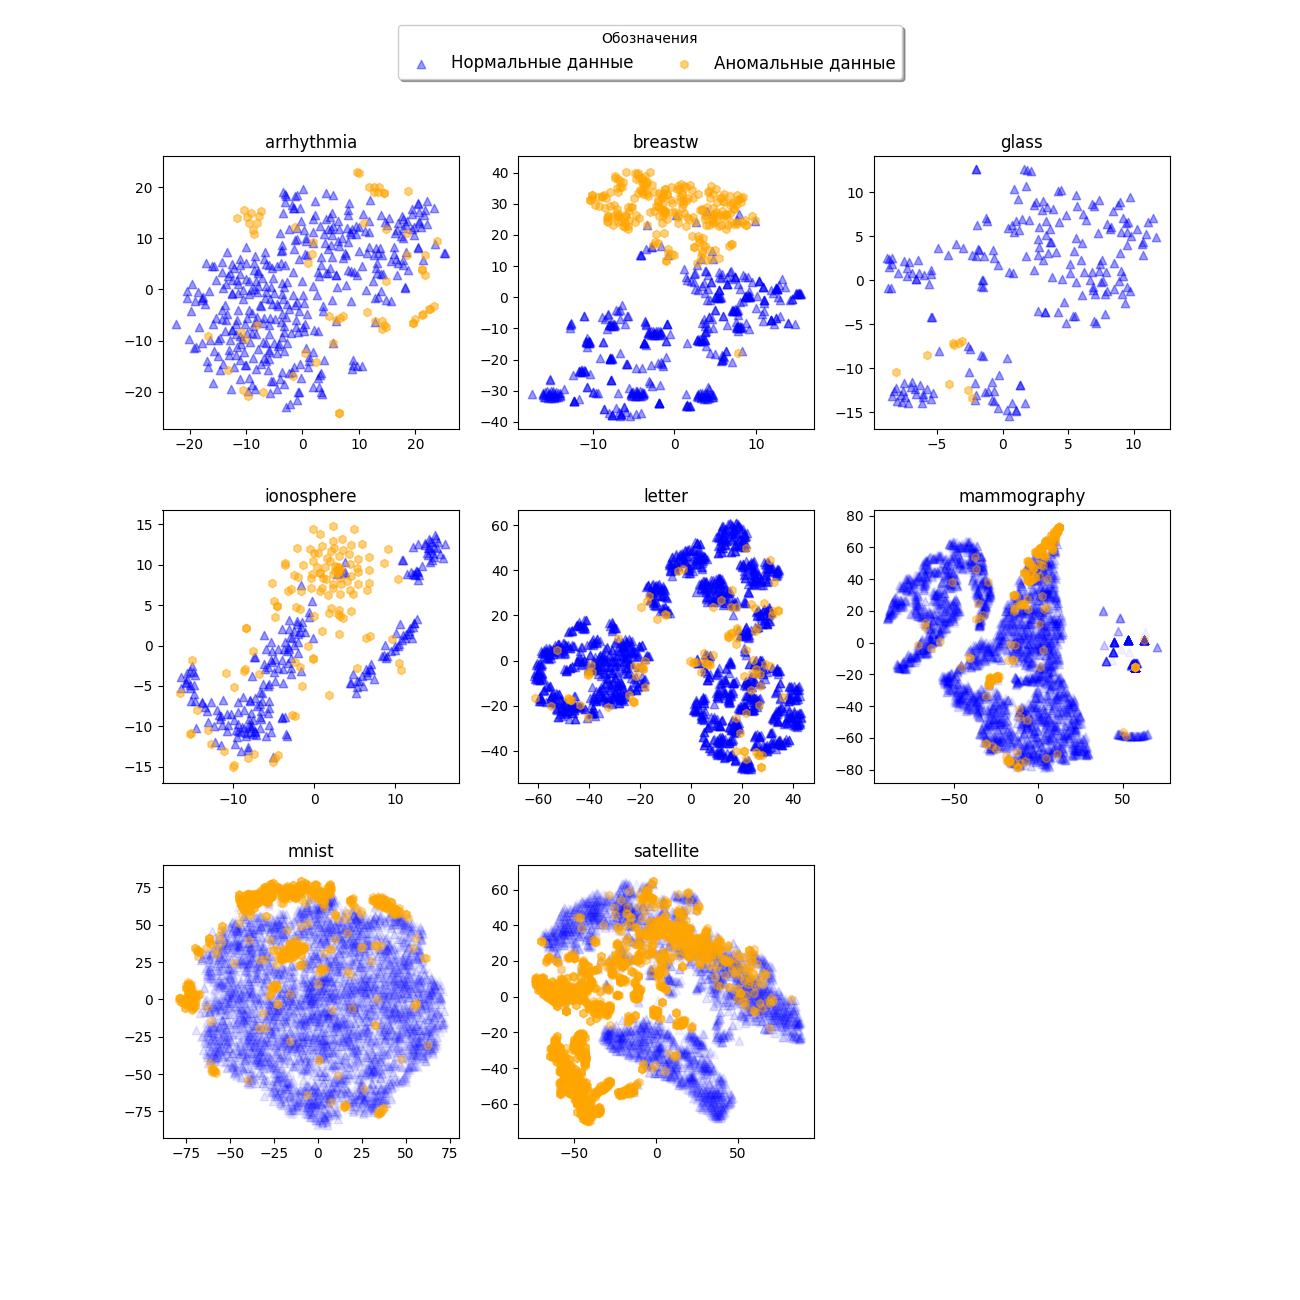
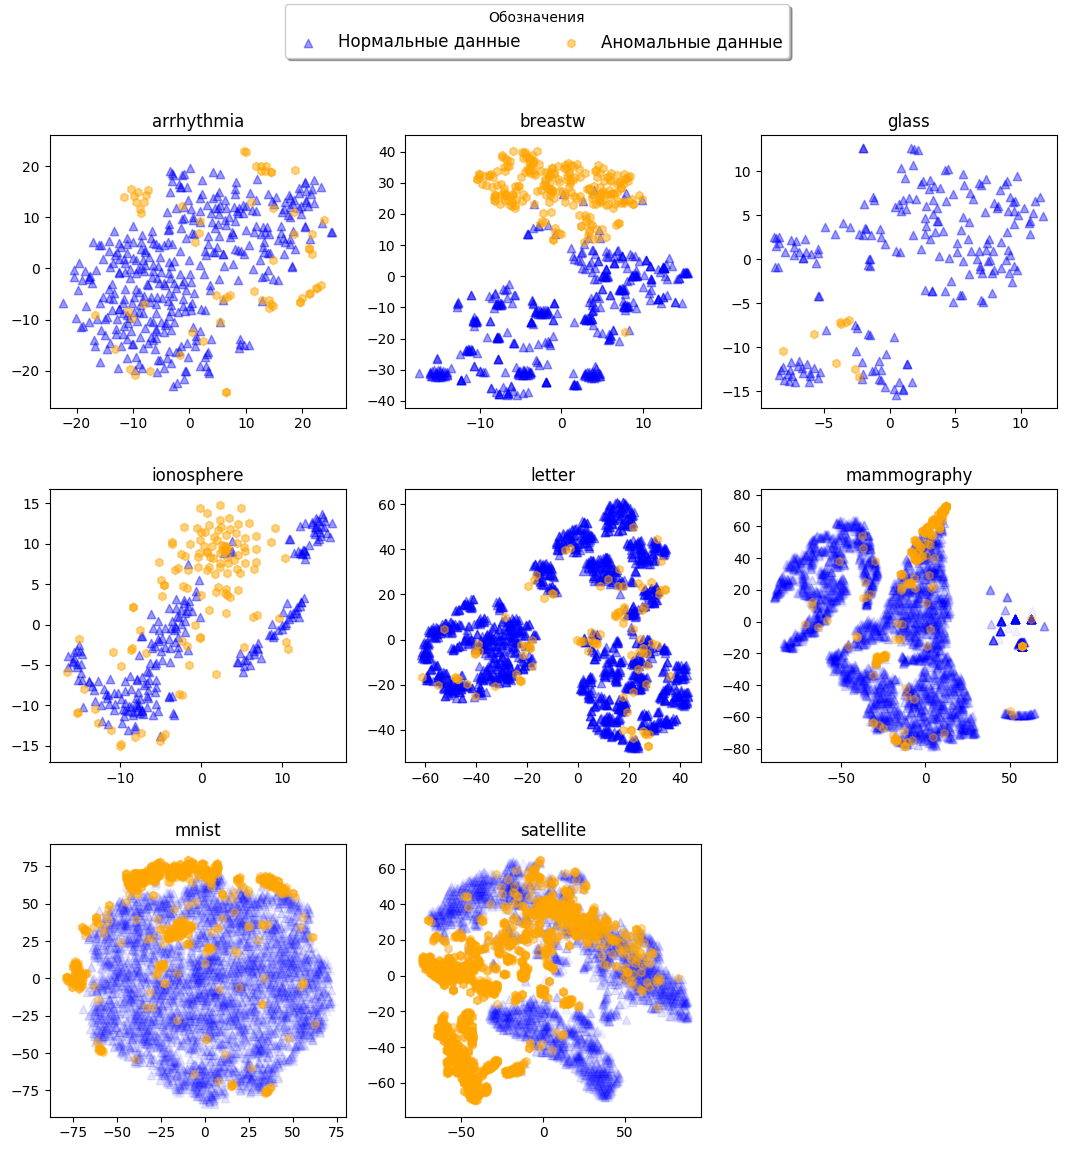
Up

diff --git a/code/db_communication/db_queries.py b/code/db_communication/db_queries.py
@@ -2,11 +2,12 @@ import io
 import psycopg2
 import pandas as pd
 
-PORT='5432'
-DB_NAME='digitlabDB'
-USER='digitlab'
-PASS='12345678'
-HOST='localhost'
+PORT = '5432'
+DB_NAME = 'digitlabDB'
+USER = 'digitlab'
+PASS = '12345678'
+HOST = 'localhost'
+
 
 def commit_query(query_filename):
     parameters = "host={} dbname={} user={} password={} port={}".format(str(HOST), str(DB_NAME), str(USER), str(PASS), str(PORT))
@@ -19,14 +20,14 @@ def commit_query(query_filename):
     try:
         cursor = connection.cursor()
         cursor.execute(query)
-        if(first_word == 'select' or first_word == 'SELECT'):
+        if first_word == 'select' or first_word == 'SELECT':
             rows = cursor.fetchall()
-            print (rows)
+            print(rows)
         connection.commit()
     except (Exception, psycopg2.Error) as error:
         print("Error while working with table", error)
     finally:
-        if(connection):
+        if connection:
             cursor.close()
             connection.close()
 
@@ -71,7 +72,7 @@ def create_file(user_id, file_name, data_frame, column_names, column_types):
     except (Exception, psycopg2.DatabaseError) as error:
         print("Error while working with database", error)
     finally:
-        if(connection):
+        if connection:
             cursor.close()
             connection.close()
 
@@ -92,7 +93,7 @@ def get_dataframe(file_id, num_rows=None):
     except (Exception, psycopg2.DatabaseError) as error:
         print("Error while creating table in {}".format(DB_NAME), error)
     finally:
-        if(connection):
+        if connection:
             connection.close()
 
 
@@ -108,5 +109,5 @@ def get_files(user_id):
     except (Exception, psycopg2.DatabaseError) as error:
         print("Error while creating table in {}".format(DB_NAME), error)
     finally:
-        if(connection):
+        if connection:
             connection.close()

diff --git a/tex/Dissertation/part5.tex b/tex/Dissertation/part5.tex
@@ -4,6 +4,14 @@
 
 В ходе работы были проанализированы существующие библиотеки для языка программирования Python, которые упрощают работу с алгоритмами для поиска аномалий и выбросов в данных.
 
-Была обнаружена и исправлена ошибка в библиотеке PyOD\footnote{\href{https://github.com/yzhao062/pyod/pull/108}{Pull Request \#108} в репозитории PyOD}.
+Была обнаружена и исправлена ошибка в библиотеке PyOD\footnote{Pull Request \#108 в репозитории PyOD -- \url{https://github.com/yzhao062/pyod/pull/108}}.
+
+Сервис развёрнут на удалённом сервере Ubuntu 18.04.2 LTS (Bionic Beaver)\footnote{\url{http://releases.ubuntu.com/18.04/}}.
+
+sudo apt-get install postgresql-11
+
+pg\_ctlcluster 11 main start
+
+postgres, создание пользователя и базы данных
 
 \clearpage

diff --git a/tex/Dissertation/part2.tex b/tex/Dissertation/part2.tex
@@ -156,6 +156,15 @@
   \label{fig:roc_vs_dataset}
 \end{figure}
 
+Демонстрация наилучших результатов работы алгоритмов.
+
+\begin{figure}[ht]
+  \centering
+  \includegraphics[width=\textwidth, height=\textheight, keepaspectratio] {d_breastw}
+  \caption{Датасет Breast Cancer}
+  \label{fig:d_breastw}
+\end{figure}
+
 %\begin{figure}[ht]
 %  \centering
 %  \includegraphics [scale=0.27] {latex}

diff --git a/code/config.py b/code/config.py
@@ -1,5 +1,6 @@
 import os
 
+
 class Config(object):
     SECRET_KEY = os.environ.get('SECRET_KEY') or 'not_for_deployment'
     UPLOAD_FOLDER = 'uploads'
